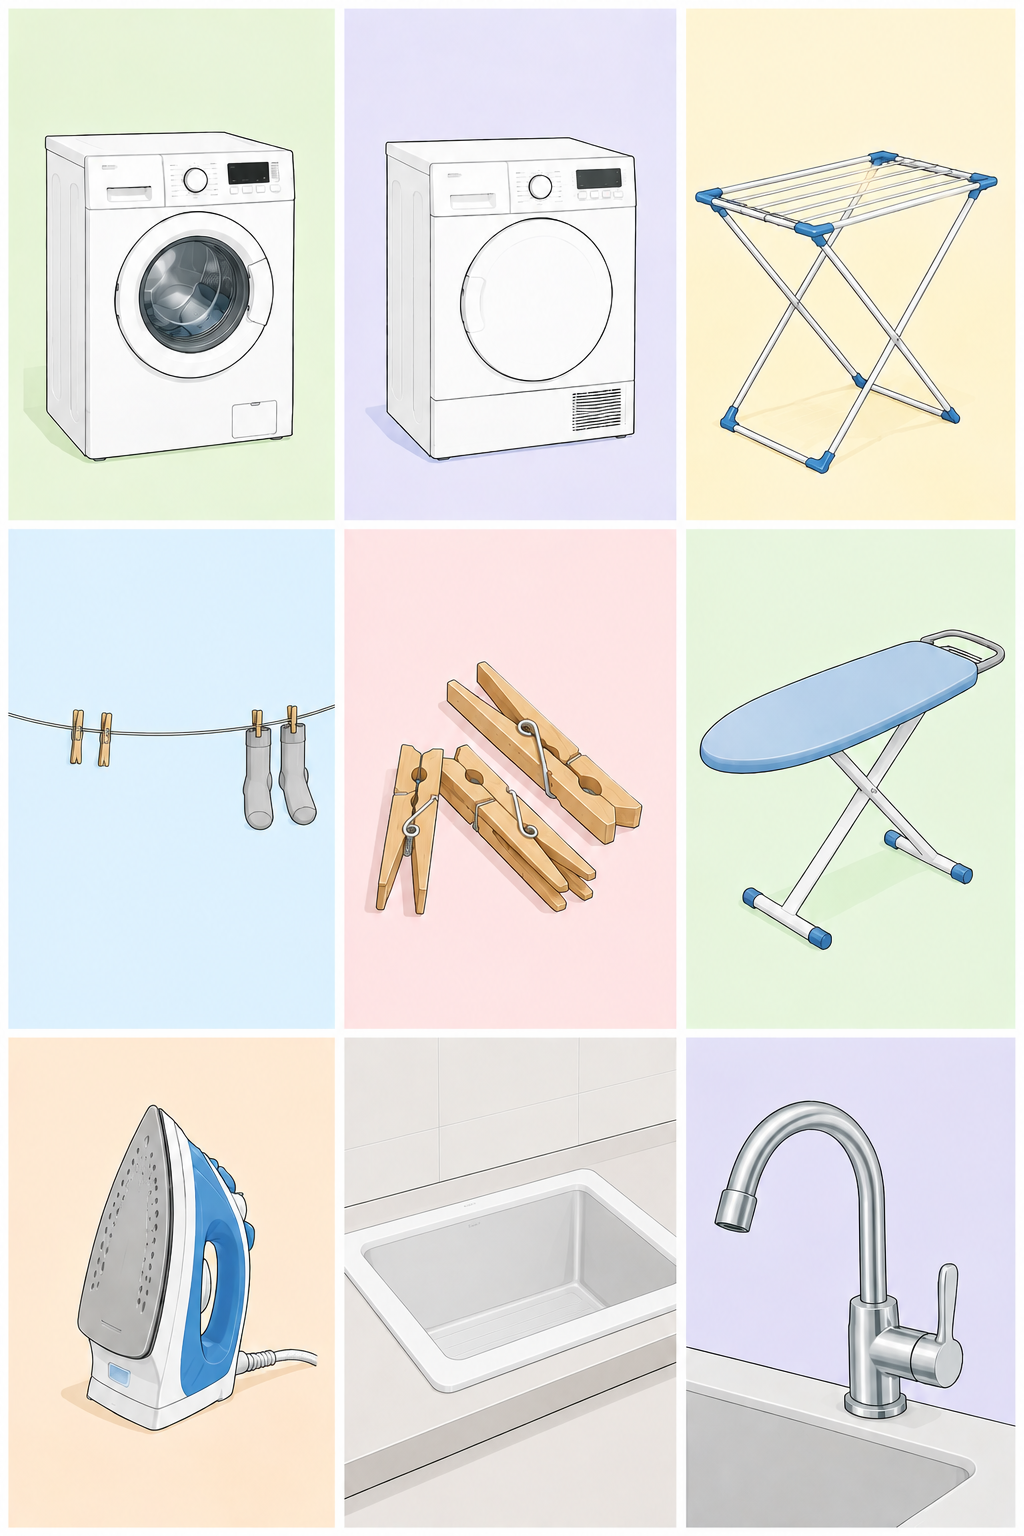
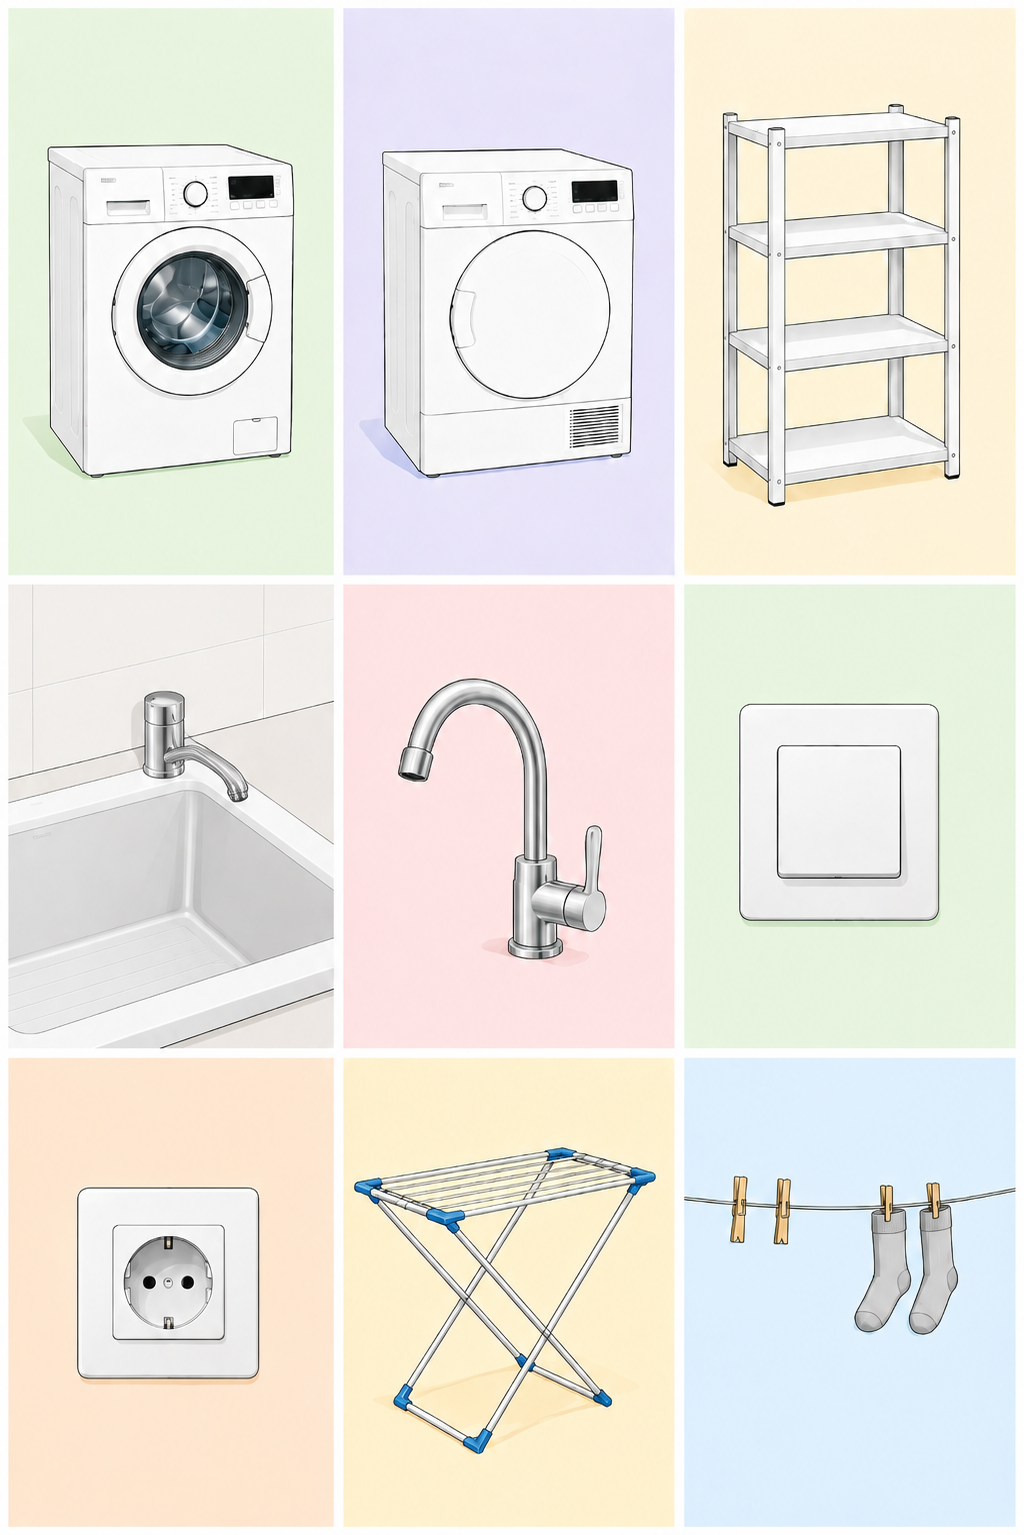
Aktualisiere lavadero2

diff --git a/bilder-daten.js b/bilder-daten.js
@@ -1239,13 +1239,13 @@ window.APP_FOLDERS = {
         hotspots: [
           { wort: "la lavadora", clickX: 16.8, clickY: 18.3, labelX: 16.8, labelY: 10.8, areaW: 31, areaH: 31 },
           { wort: "la secadora", clickX: 50.0, clickY: 18.3, labelX: 50.0, labelY: 10.8, areaW: 31, areaH: 31 },
-          { wort: "el tendedero", clickX: 83.2, clickY: 18.3, labelX: 83.2, labelY: 10.8, areaW: 31, areaH: 31 },
-          { wort: "la cuerda de tender", clickX: 16.8, clickY: 51.5, labelX: 16.8, labelY: 44.0, areaW: 31, areaH: 31 },
-          { wort: "las pinzas de la ropa", clickX: 50.0, clickY: 51.5, labelX: 50.0, labelY: 44.0, areaW: 31, areaH: 31 },
-          { wort: "la tabla de planchar", clickX: 83.2, clickY: 51.5, labelX: 83.2, labelY: 44.0, areaW: 31, areaH: 31 },
-          { wort: "la plancha", clickX: 16.8, clickY: 83.0, labelX: 16.8, labelY: 75.5, areaW: 31, areaH: 31 },
-          { wort: "el fregadero", clickX: 50.0, clickY: 83.0, labelX: 50.0, labelY: 75.5, areaW: 31, areaH: 31 },
-          { wort: "el grifo", clickX: 83.2, clickY: 83.0, labelX: 83.2, labelY: 75.5, areaW: 31, areaH: 31 }
+          { wort: "la estantería", clickX: 83.2, clickY: 18.3, labelX: 83.2, labelY: 10.8, areaW: 31, areaH: 31 },
+          { wort: "el fregadero", clickX: 16.8, clickY: 51.5, labelX: 16.8, labelY: 44.0, areaW: 31, areaH: 31 },
+          { wort: "el grifo", clickX: 50.0, clickY: 51.5, labelX: 50.0, labelY: 44.0, areaW: 31, areaH: 31 },
+          { wort: "el interruptor", clickX: 83.2, clickY: 51.5, labelX: 83.2, labelY: 44.0, areaW: 31, areaH: 31 },
+          { wort: "el enchufe", clickX: 16.8, clickY: 83.0, labelX: 16.8, labelY: 75.5, areaW: 31, areaH: 31 },
+          { wort: "el tendedero", clickX: 50.0, clickY: 83.0, labelX: 50.0, labelY: 75.5, areaW: 31, areaH: 31 },
+          { wort: "la cuerda de tender", clickX: 83.2, clickY: 83.0, labelX: 83.2, labelY: 75.5, areaW: 31, areaH: 31 }
         ]
       },
       {
